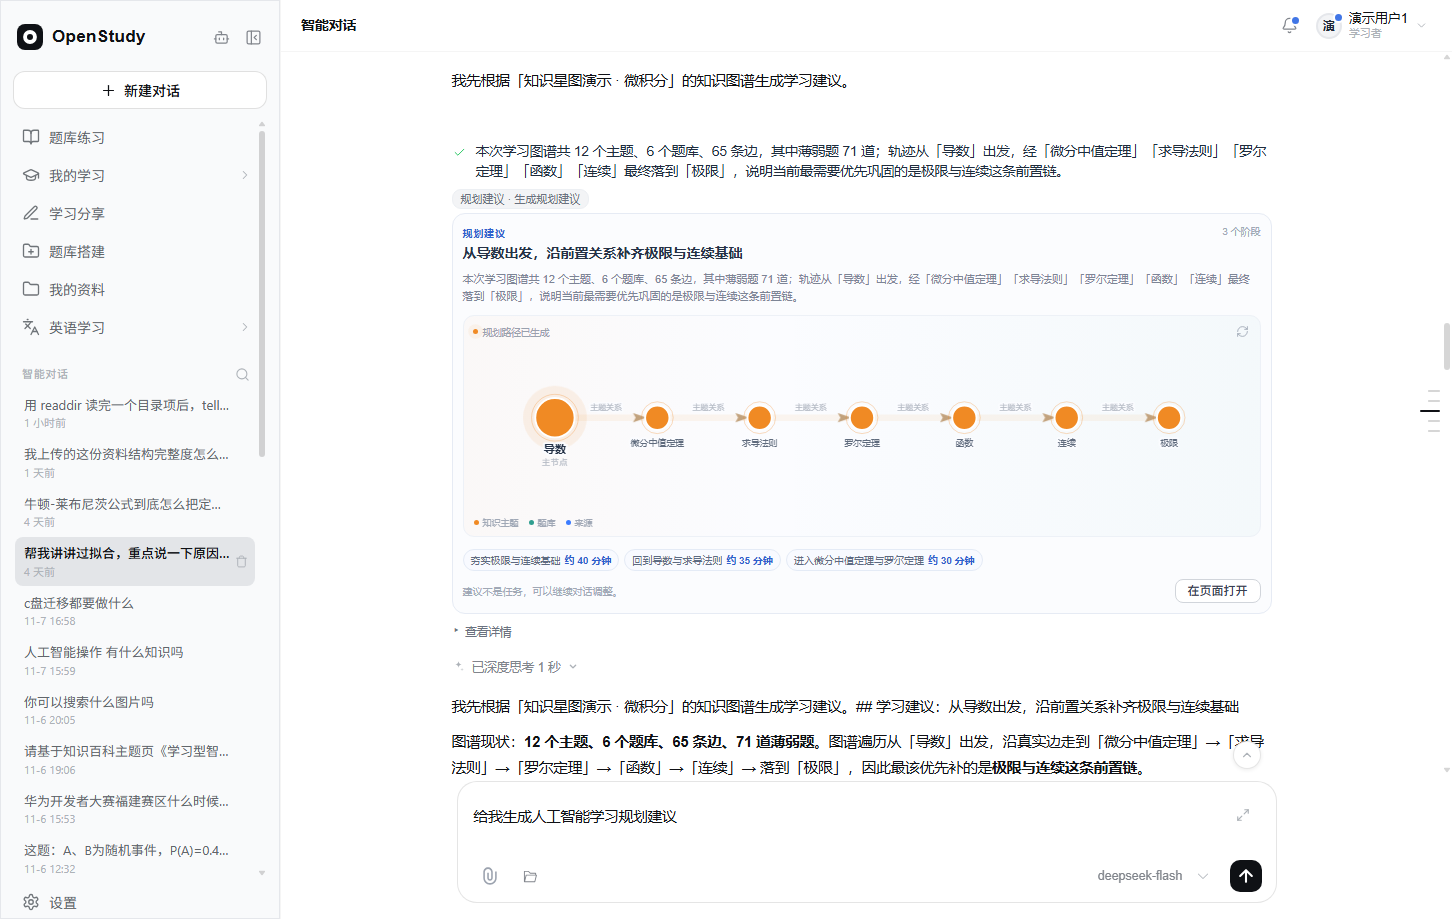
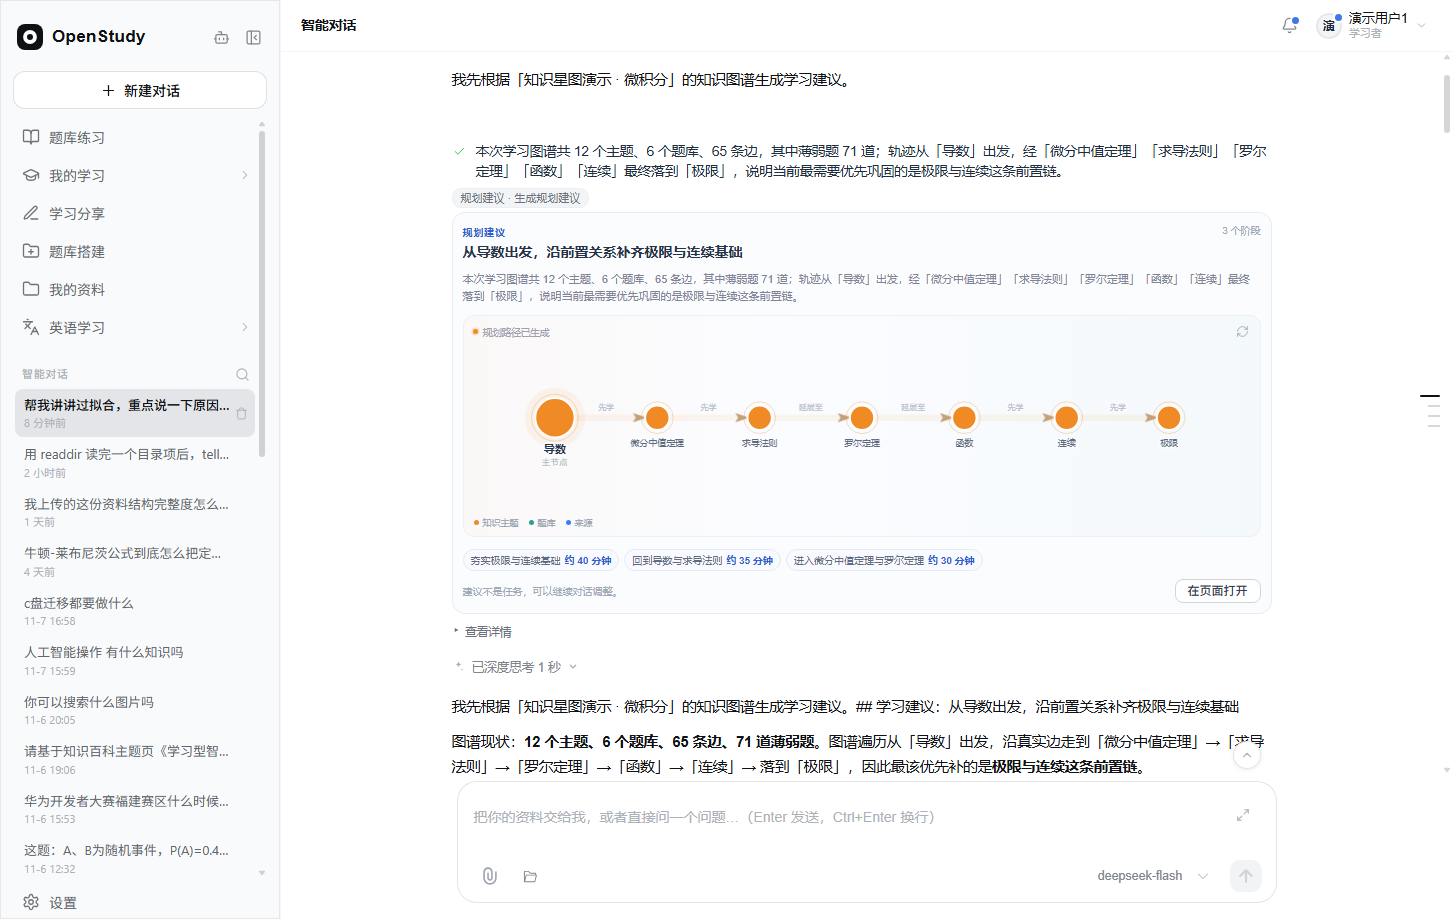
fix: use action labels on planning path edges

diff --git a/openstudy-vue3-ts/src/components/StudyPlanNodeAnimation/index.vue b/openstudy-vue3-ts/src/components/StudyPlanNodeAnimation/index.vue
@@ -92,6 +92,25 @@ function shortLabel(value: any, max = 11) {
   return text.length > max ? `${text.slice(0, max)}…` : text
 }
 
+const RELATION_LABELS: Record<string, string> = {
+  prerequisite: '先学',
+  question_source: '做题验证',
+  source_doc: '引自',
+  reference: '引用',
+  image_source: '配图',
+  mention: '延展至',
+  related: '关联到',
+  contrast: '对比'
+}
+
+function relationLabel(edge: any) {
+  const kind = String(edge?.kind || '')
+  const raw = String(edge?.label || '').trim()
+  if (raw && !['主题关系', '主题关联', '关联'].includes(raw)) return raw
+  if (kind === 'part_of') return '包含'
+  return RELATION_LABELS[kind] || '延展至'
+}
+
 function nodeColor(node: any) {
   const kind = normalizeEntityKind(node?.kind)
   return entityTypeMeta(kind).color
@@ -124,7 +143,7 @@ const pathData = computed(() => {
       index,
       from: String(previous.id),
       to: String(next.id),
-      label: String(step?.label || '').trim(),
+      label: relationLabel(step),
       kind: String(step?.kind || '')
     })
     pathNodes.push(next)
@@ -145,7 +164,7 @@ const pathData = computed(() => {
         index: pathEdges.length,
         from: String(from.id),
         to: String(to.id),
-        label: String(edge.label || '').trim(),
+        label: relationLabel(edge),
         kind: String(edge.kind || '')
       })
       pathNodes.push(to)
@@ -240,7 +259,7 @@ onBeforeUnmount(() => timers.forEach((timer) => clearTimeout(timer)))
 .spna__edge-group { pointer-events: none; }
 .spna__ray-glow { stroke: #f08a24; stroke-width: 7; opacity: .07; }
 .spna__ray { stroke: url(#spna-ray); stroke-width: 1.8; stroke-dasharray: 5 4; animation: spna-ray-in .48s ease-out both; }
-.spna__edge-label { fill: #b2b8c3; font-size: 8.5px; paint-order: stroke; stroke: #fbfcff; stroke-width: 3px; stroke-linejoin: round; }
+.spna__edge-label { fill: #8994a5; font-size: 9.5px; font-weight: 500; paint-order: stroke; stroke: #fbfcff; stroke-width: 3px; stroke-linejoin: round; }
 .spna__node { animation: spna-node-in .34s cubic-bezier(.2,.8,.2,1) both; }
 .spna__node-dot { stroke: #fff; stroke-width: 2; }
 .spna__node-ring { fill: none; stroke-width: 1; opacity: .32; }

diff --git a/openstudy-fastapi/app/services/study_advice_service.py b/openstudy-fastapi/app/services/study_advice_service.py
@@ -196,7 +196,7 @@ def _trace_from_graph(
                 "to": next_id,
                 "edgeId": str(edge.get("id") or ""),
                 "kind": str(edge.get("kind") or "related"),
-                "label": str(edge.get("label") or "关联"),
+                "label": _relation_label(edge),
                 "reason": reason,
                 "durationMs": 550,
                 "direction": "in" if edge.get("_reverse") else "out",
@@ -217,6 +217,30 @@ def _trace_from_graph(
         "visitedNodeIds": visited,
         "degraded": {"singleNode": not steps, "noEdges": len(edges) == 0},
     }
+
+
+def _relation_label(edge: Dict[str, Any]) -> str:
+    """把“主题关系”这种泛标签翻译成可读的动作关系。"""
+    kind = str(edge.get("kind") or "")
+    reverse = bool(edge.get("_reverse"))
+    if kind == "part_of":
+        return "包含" if reverse else "属于"
+    labels = {
+        "prerequisite": "先学",
+        "question_source": "做题验证",
+        "source_doc": "引自",
+        "reference": "引用",
+        "image_source": "配图",
+        "mention": "延展至",
+        "related": "关联到",
+        "contrast": "对比",
+    }
+    if kind in labels:
+        return labels[kind]
+    raw = str(edge.get("label") or "").strip()
+    if raw and raw not in {"主题关系", "主题关联", "关联"}:
+        return raw
+    return "延展至"
 
 
 def _step_reason(edge: Dict[str, Any], node: Dict[str, Any]) -> str:
